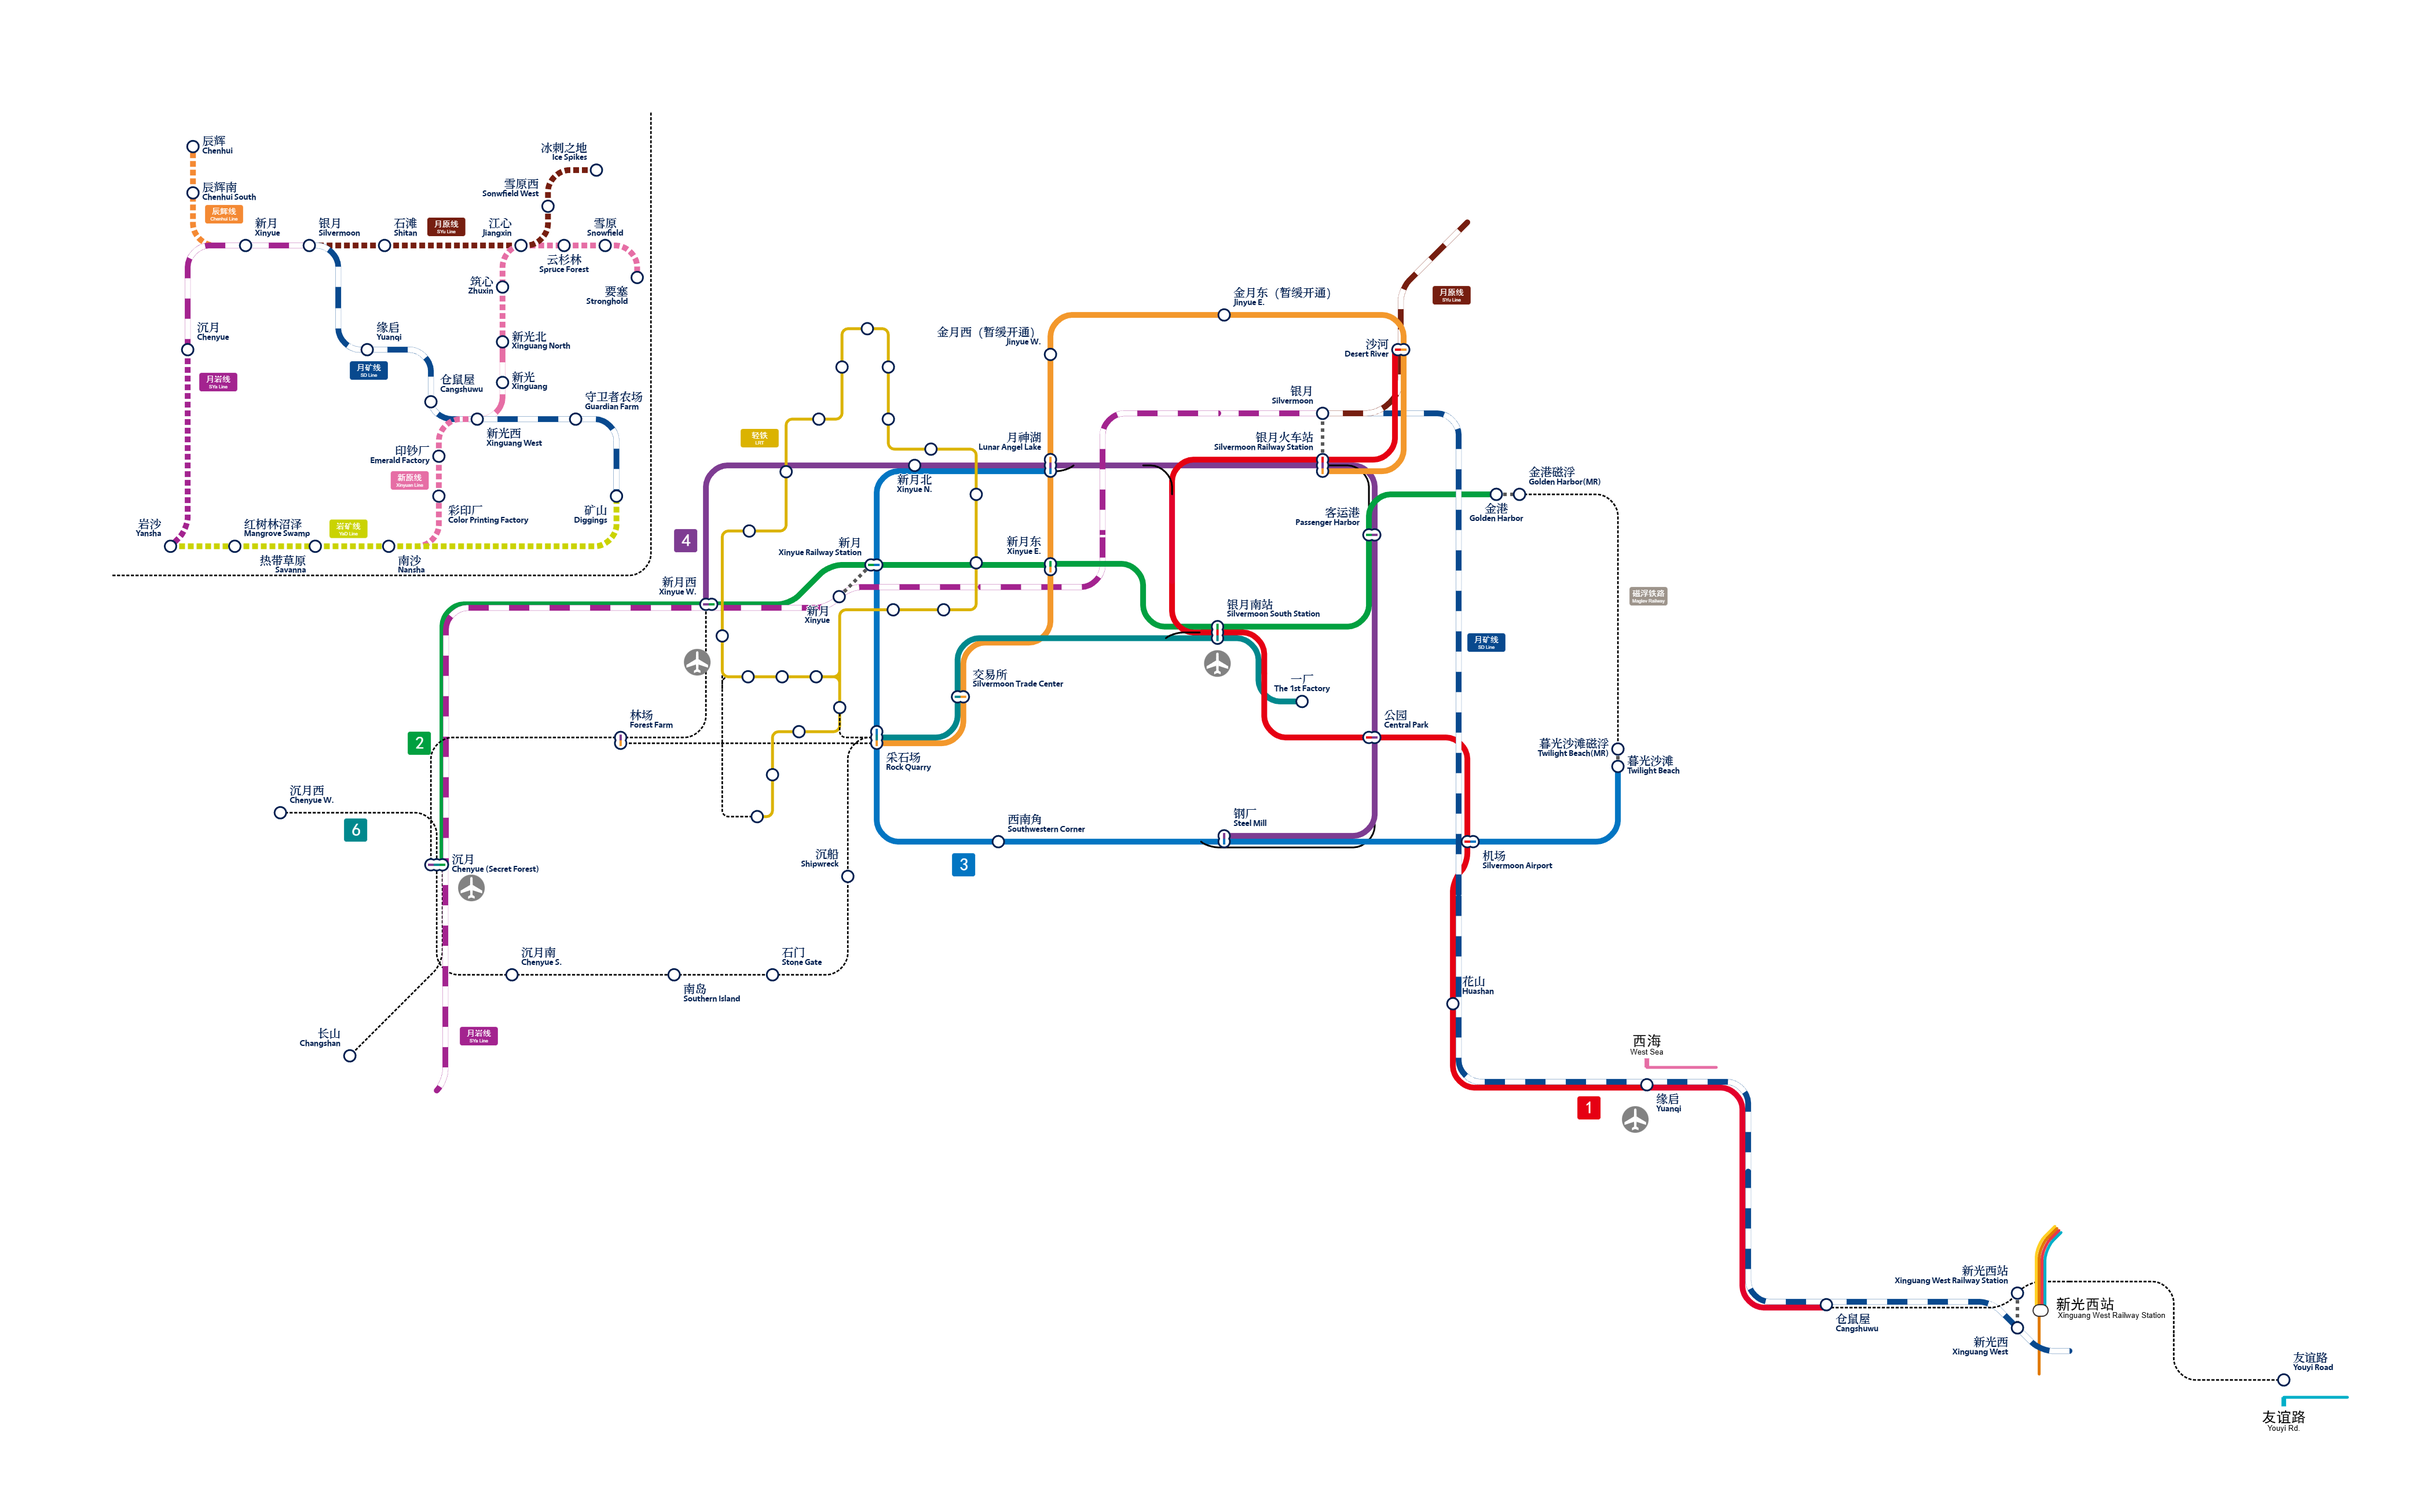
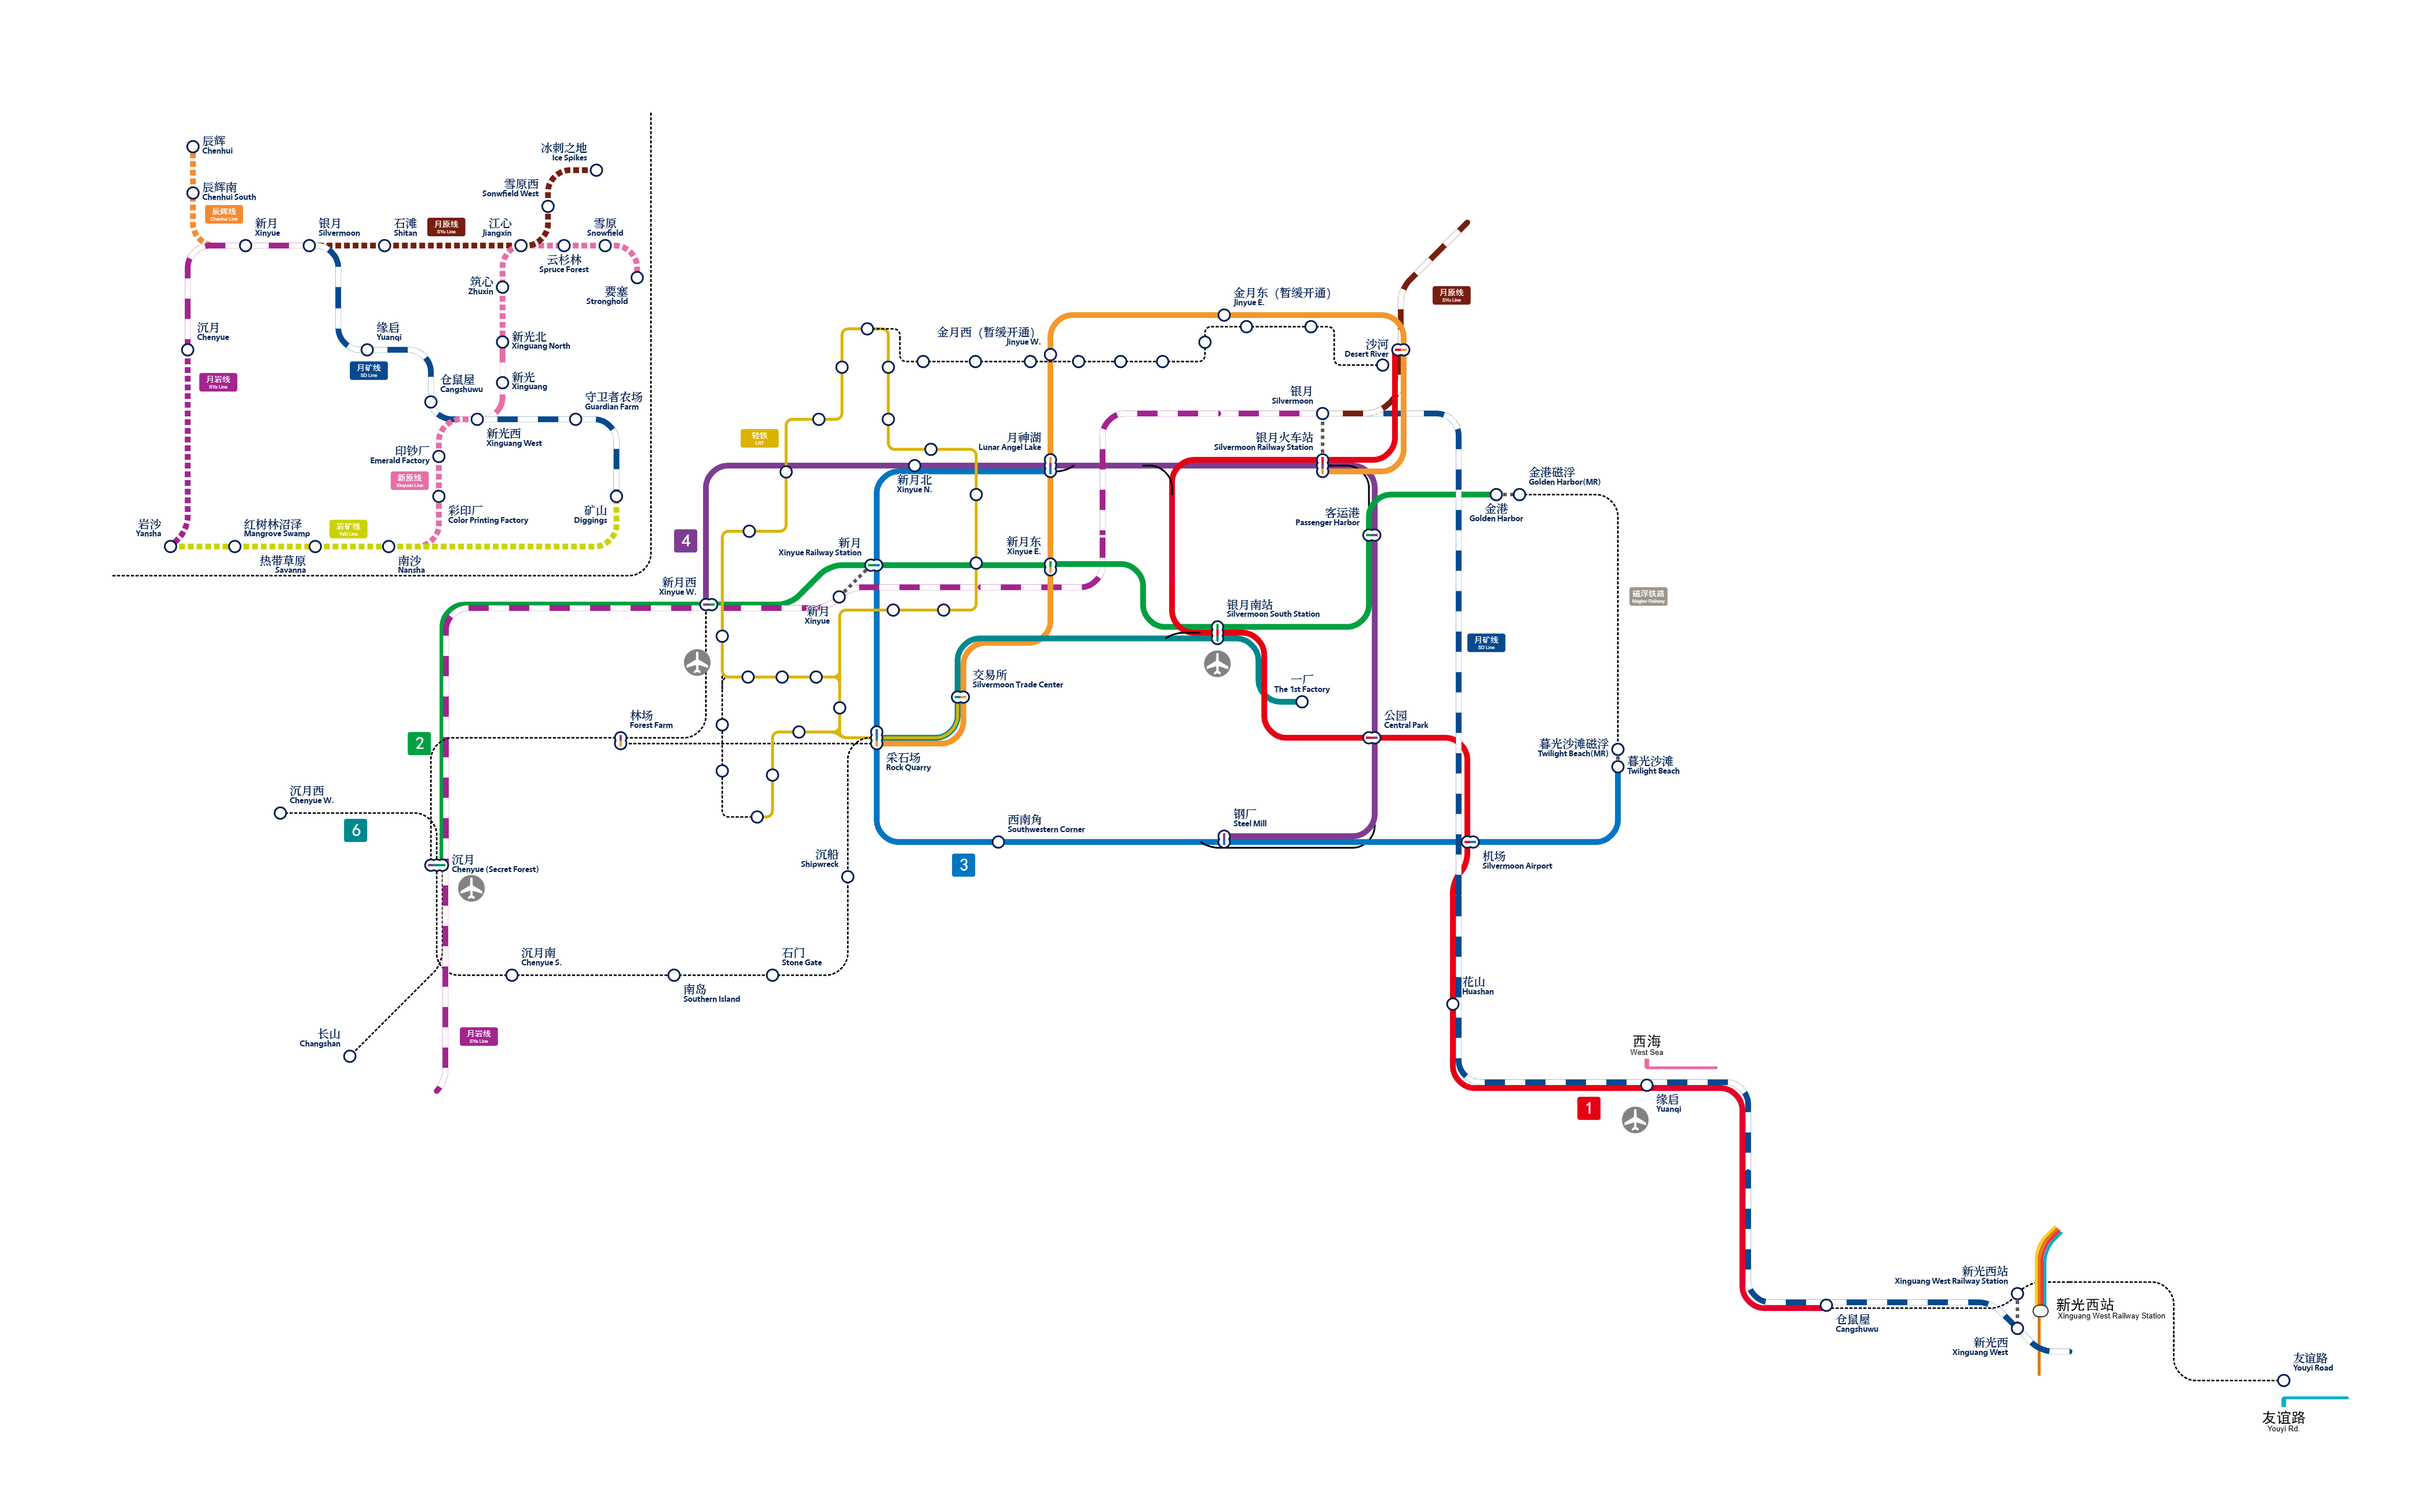
更新轻轨信息

diff --git a/docs/servers/SurvivalIII/railway_transit/silvermoon.md b/docs/servers/SurvivalIII/railway_transit/silvermoon.md
@@ -25,6 +25,6 @@ description: 了解银月地铁迅猛发展的背后。
 - **4 号线**：南门 — 沉月，「月神湖北 — 南门」段与 3 号线建设联络线成环线，共 9 站;
 - **5 号线**：银月火车站 — 林场，「银月火车站 — 新月（不含）」段贯通国铁月原线，共 9 站；
 - **6 号线**：沉月西 — 一厂，单线（仅银月南站前后与 1 号线共线部分为复线），共 10 站。
-- **新月轻铁**：连接新月各个新城的单线铁路，目前三期建设共 20 站。
+- **新月轻铁**：连接新月各个新城的单线铁路，目前三期建设共 20 站，通过联络线接轨 6 号线并贯通运营「采石场 — 交易所」段。
 
 另外远期计划建设一条连接金港和暮光沙滩的磁悬浮铁路（具体的建设风格待定）。
